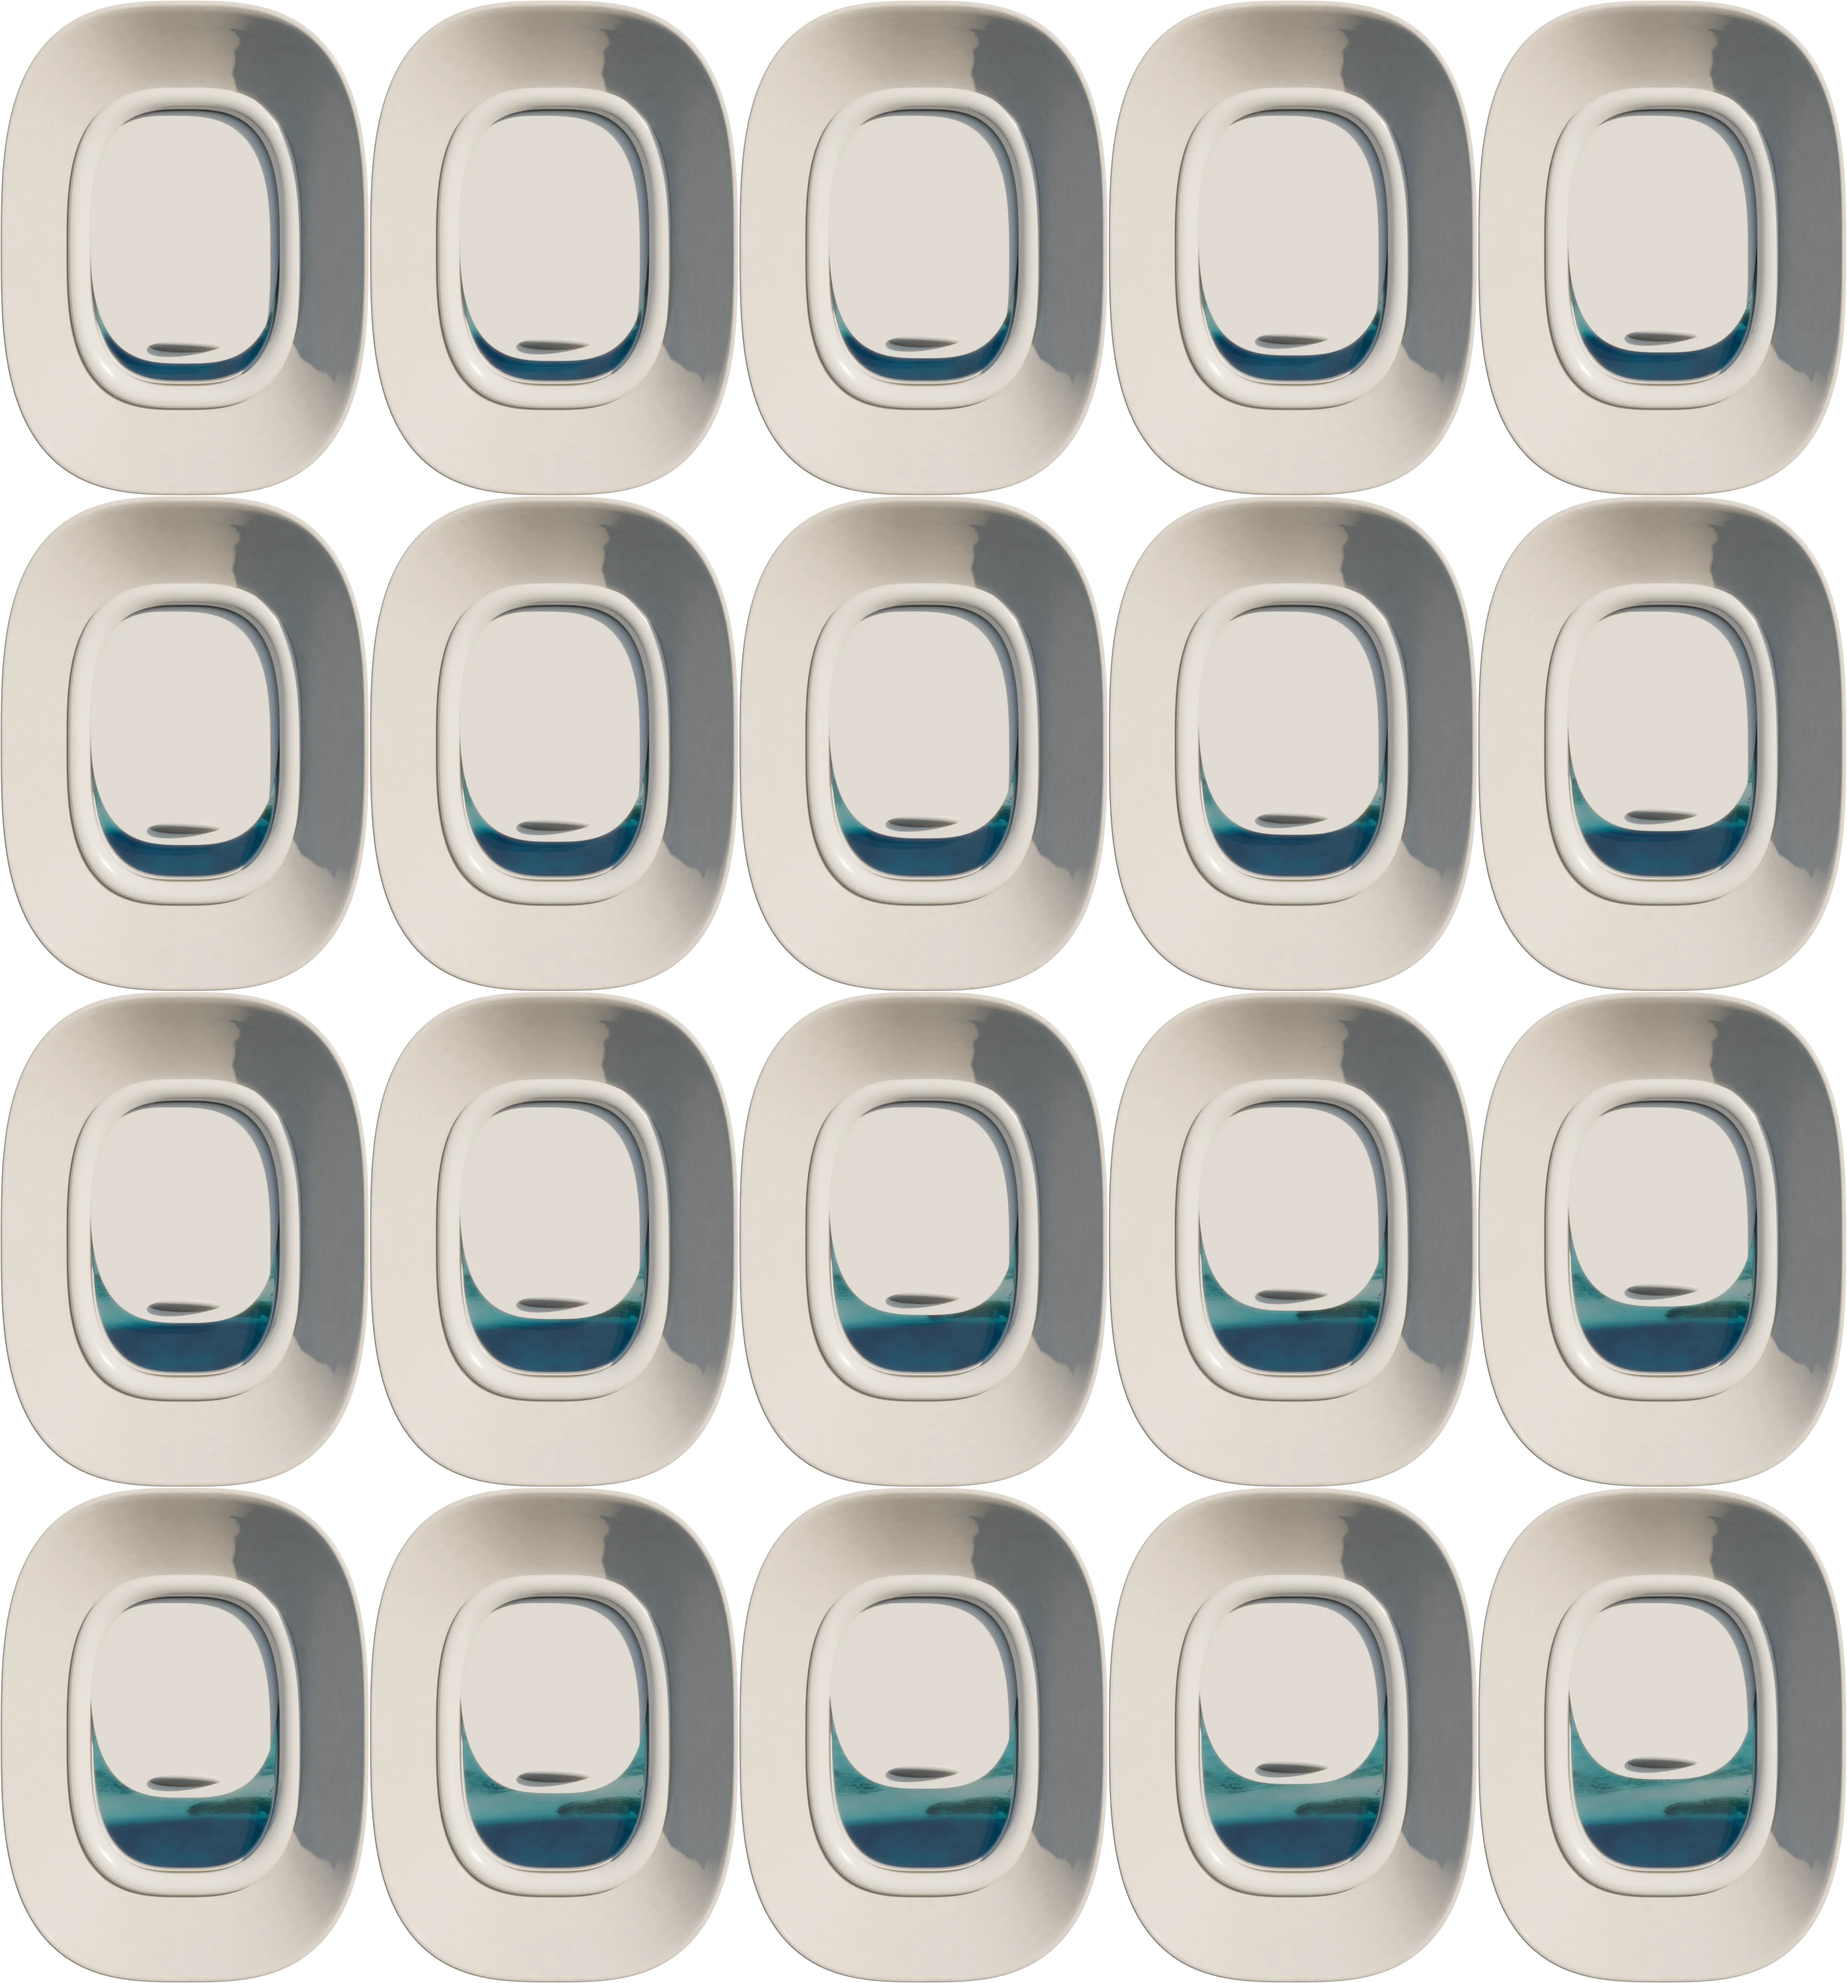
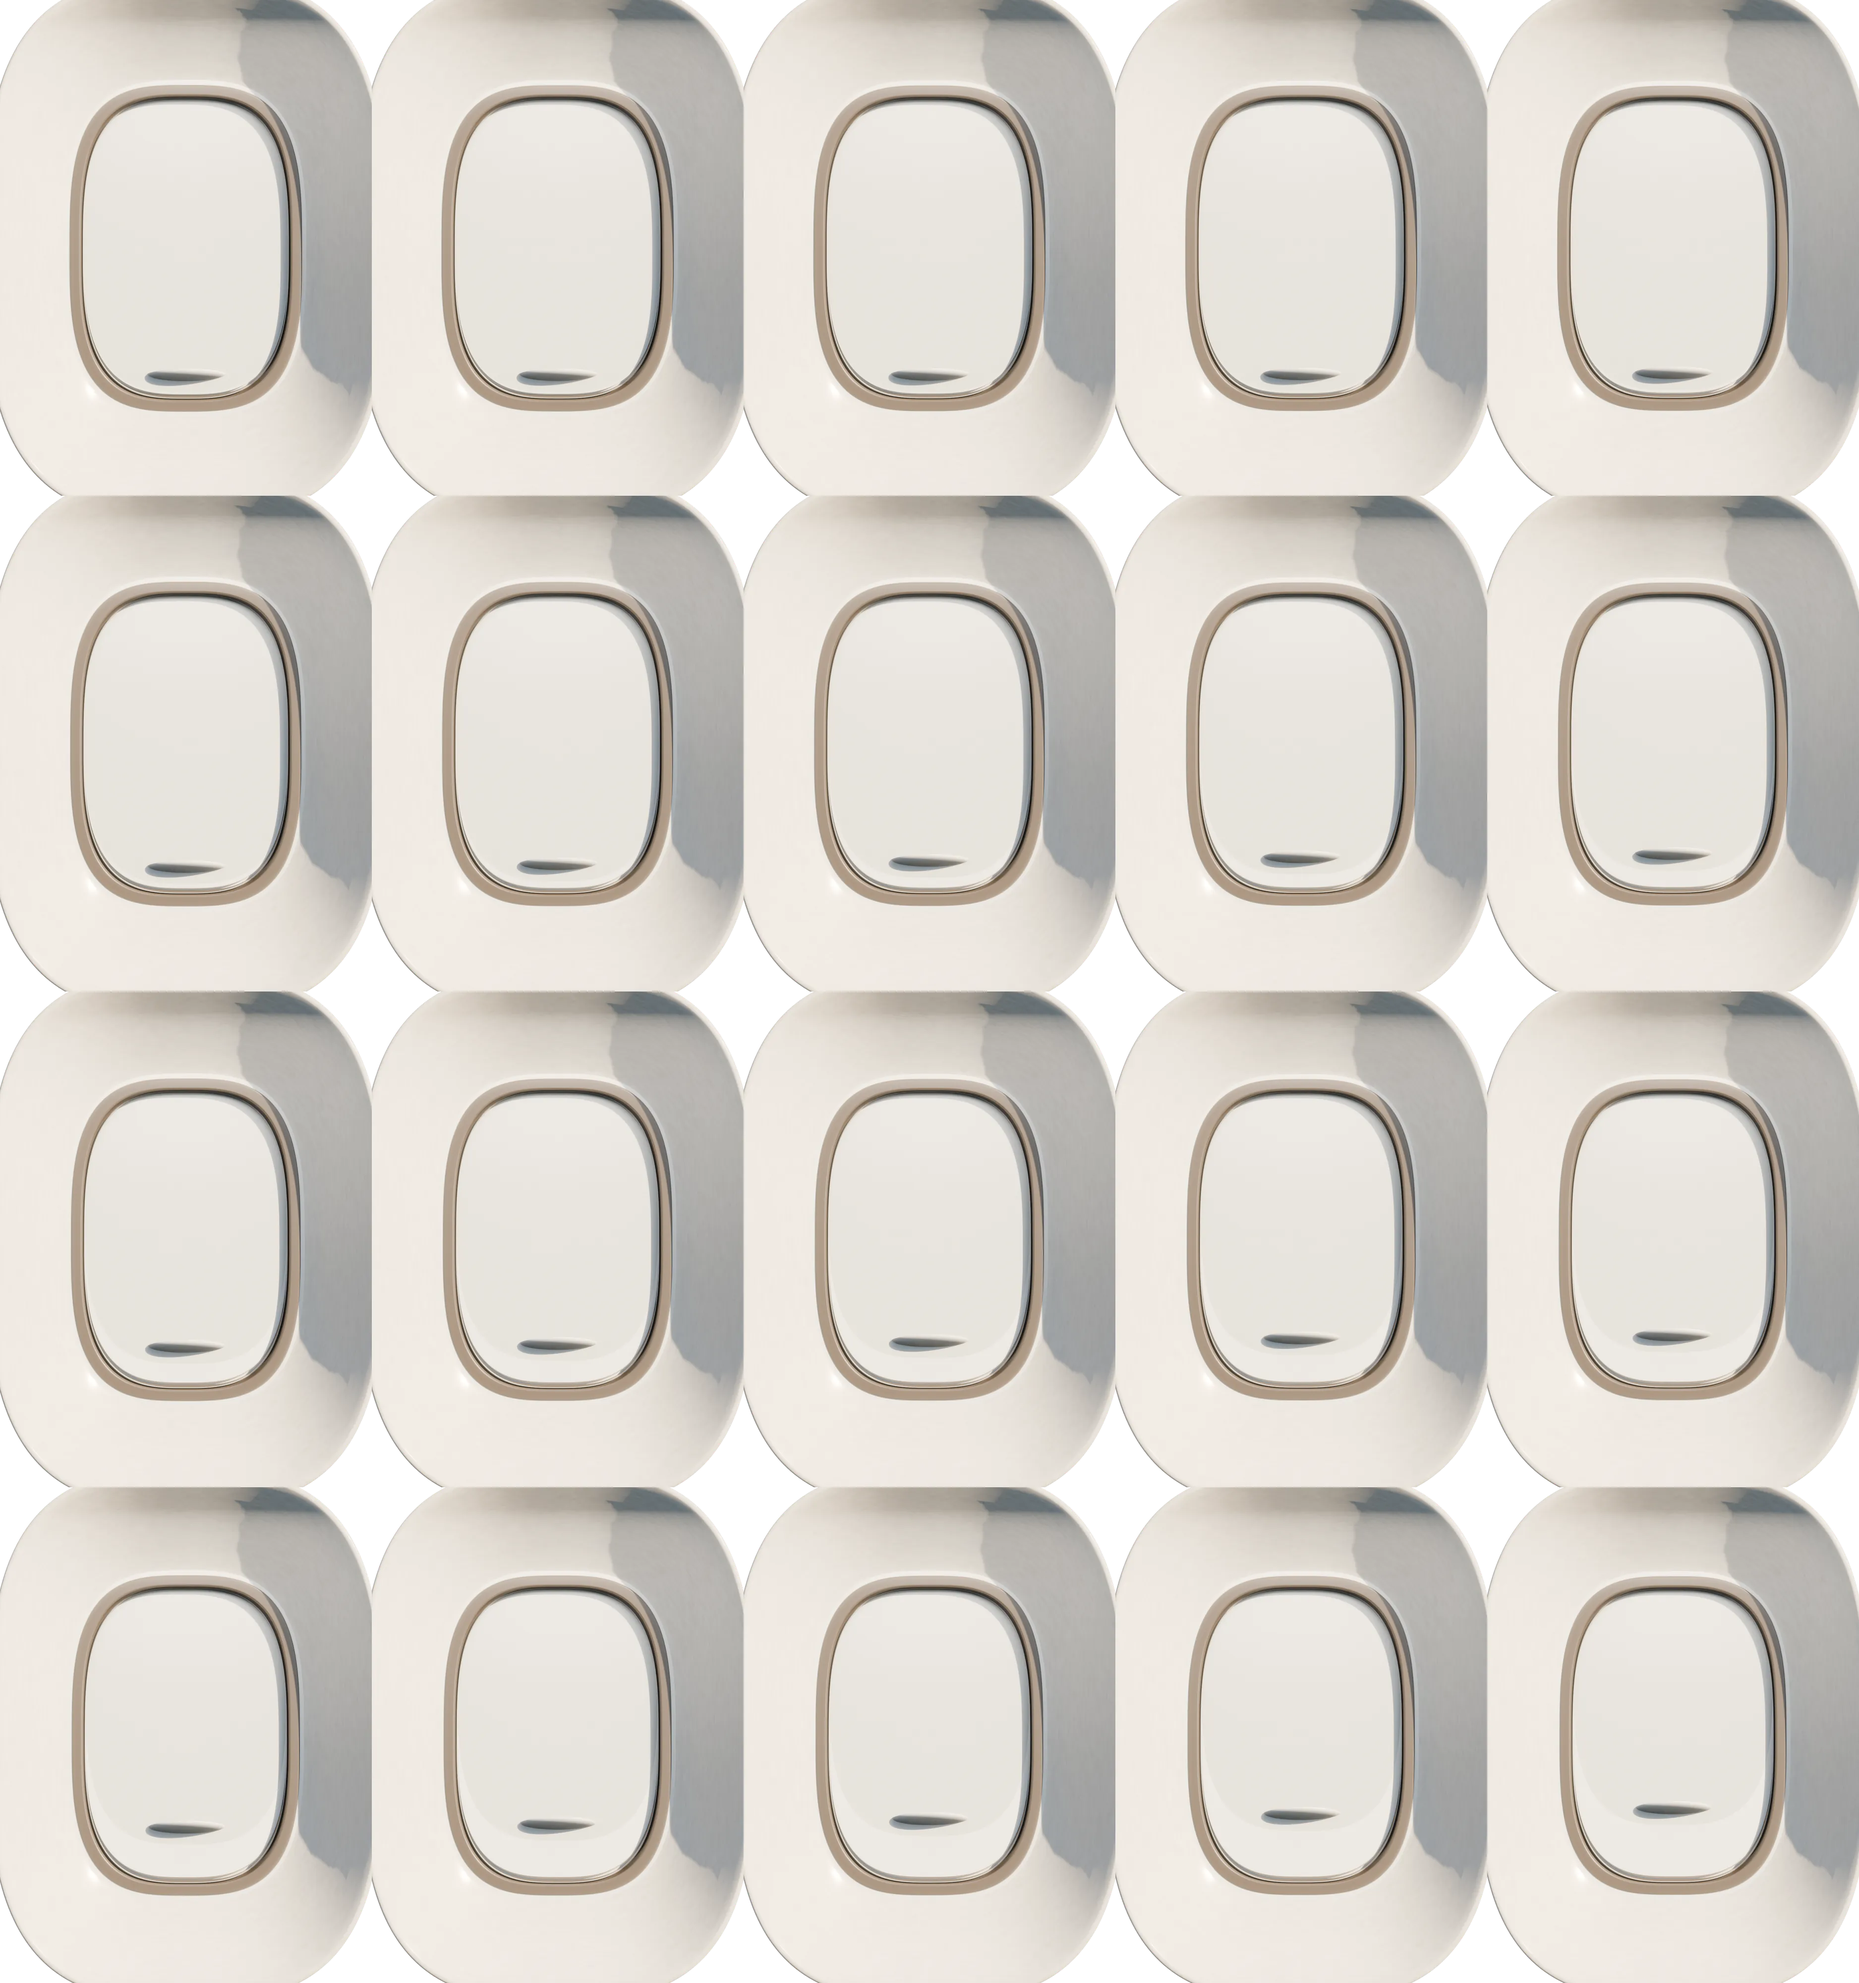
Rebuild journey camera/lighting to match the original reveal, fix missing frame geometry
The client asked to recover the original animation's interior lighting
(including its animation) and the original reveal choreography — a
continuous close-to-wide dolly synced with the shade opening, ending in
a static hold where a light escalation carries the transition to white,
rather than the invented "shade then push-in" two-clip structure this
prototype had before.

- Blender: rebuilt Camera_Main's full path (location, lens, DOF) and
  Window_Shade's opening curve from the original file's frames 1-192,
  remapped onto the new clip range 1-100. The interior light escalation
  (originally frames 216-312 of the pre-redesign timeline, orphaned
  data that was never reachable once the timeline got cut down) is now
  remapped onto frames 101-140, ending as the CSS whiteout takes over.
  Re-enabled the original Journey_Legacy_Dark_Cabin_Lighting collection
  and Final_Whiteout_Window_Blast_Light, both of which existed in the
  file but were disabled by the prior pass. Added Journey_Exterior_Fill,
  a single soft cool-toned area light on the shadowed side, per the
  client's direction.

- Root cause of a bug found along the way: while chasing a black band
  that appeared near the top of the frame in the tighter reveal shots,
  discovered Window_Frame.001 — the entire outer window bezel — had
  been deleted from the scene, almost certainly during an earlier
  temporary-collection cleanup in this session. Everything else touched
[…]

diff --git a/journey.js b/journey.js
@@ -312,7 +312,7 @@
   Journey.prototype.renderProgress = function (progress) {
     var shadeEnd = 0.58;
     var pushEnd = 0.84;
-    var shadeLastIndex = (this.variant ? this.variant.clips.shade.frameCount : 90) - 1;
+    var shadeLastIndex = (this.variant ? this.variant.clips.shade.frameCount : 100) - 1;
     var pushLastIndex = (this.variant ? this.variant.clips.push.frameCount : 40) - 1;
     var shadeProgress = clamp((progress - 0.06) / (shadeEnd - 0.06), 0, 1);
     var pushProgress = ease((progress - shadeEnd) / (pushEnd - shadeEnd));

diff --git a/tools/build_journey_sheets.py b/tools/build_journey_sheets.py
@@ -47,8 +47,8 @@ class Variant:
 
 
 CLIPS = (
-    Clip("shade", 1, 90),
-    Clip("push", 91, 130),
+    Clip("shade", 1, 100),
+    Clip("push", 101, 140),
 )
 
 VARIANTS = (
@@ -107,29 +107,34 @@ def cell_size(variant: Variant, crop: tuple[int, int, int, int]) -> tuple[int, i
     return width, height
 
 
-def check_alpha_coverage(frame_paths: list[Path], clip_name: str) -> None:
+def check_alpha_coverage(frame_paths: list[Path], clip_name: str, grace_frames: int = 0) -> None:
     """Guardrail: refuse to build if any source frame is near-fully opaque.
 
-    A frame at or above ALPHA_COVERAGE_LIMIT opacity means the alpha silhouette has
-    lost its transparent margin — almost always because the camera has dollied past
+    A frame at or above ALPHA_COVERAGE_LIMIT opacity usually means the alpha silhouette
+    has lost its transparent margin — almost always because the camera has dollied past
     the window frame into whatever is behind it (see the push-clip camera regression
-    this check was added to catch)."""
+    this check was added to catch).
+
+    The first `grace_frames` of a clip are exempt: an intentional close/macro opening
+    (persiana closed, camera tight) legitimately fills the frame edge-to-edge with no
+    transparent margin — that's not the bug, it's the shot. The guardrail stays strict
+    for everything after, which is where the real regression showed up."""
     violations = []
-    for path in frame_paths:
+    for index, path in enumerate(frame_paths):
         with Image.open(path) as image:
             rgba = image.convert("RGBA")
             alpha = rgba.getchannel("A")
             total = rgba.size[0] * rgba.size[1]
             opaque = sum(alpha.histogram()[250:])
             coverage = opaque / total
-            if coverage >= ALPHA_COVERAGE_LIMIT:
+            if coverage >= ALPHA_COVERAGE_LIMIT and index >= grace_frames:
                 violations.append((path.name, coverage))
     if violations:
         details = "\n".join(f"  - {name}: {cov:.3f} opaque" for name, cov in violations[:10])
         raise SystemExit(
             f"Alpha coverage guardrail failed for clip '{clip_name}': "
             f"{len(violations)} frame(s) at or above {ALPHA_COVERAGE_LIMIT:.0%} opaque "
-            f"coverage.\n{details}"
+            f"coverage after the {grace_frames}-frame grace window.\n{details}"
         )
 
 
